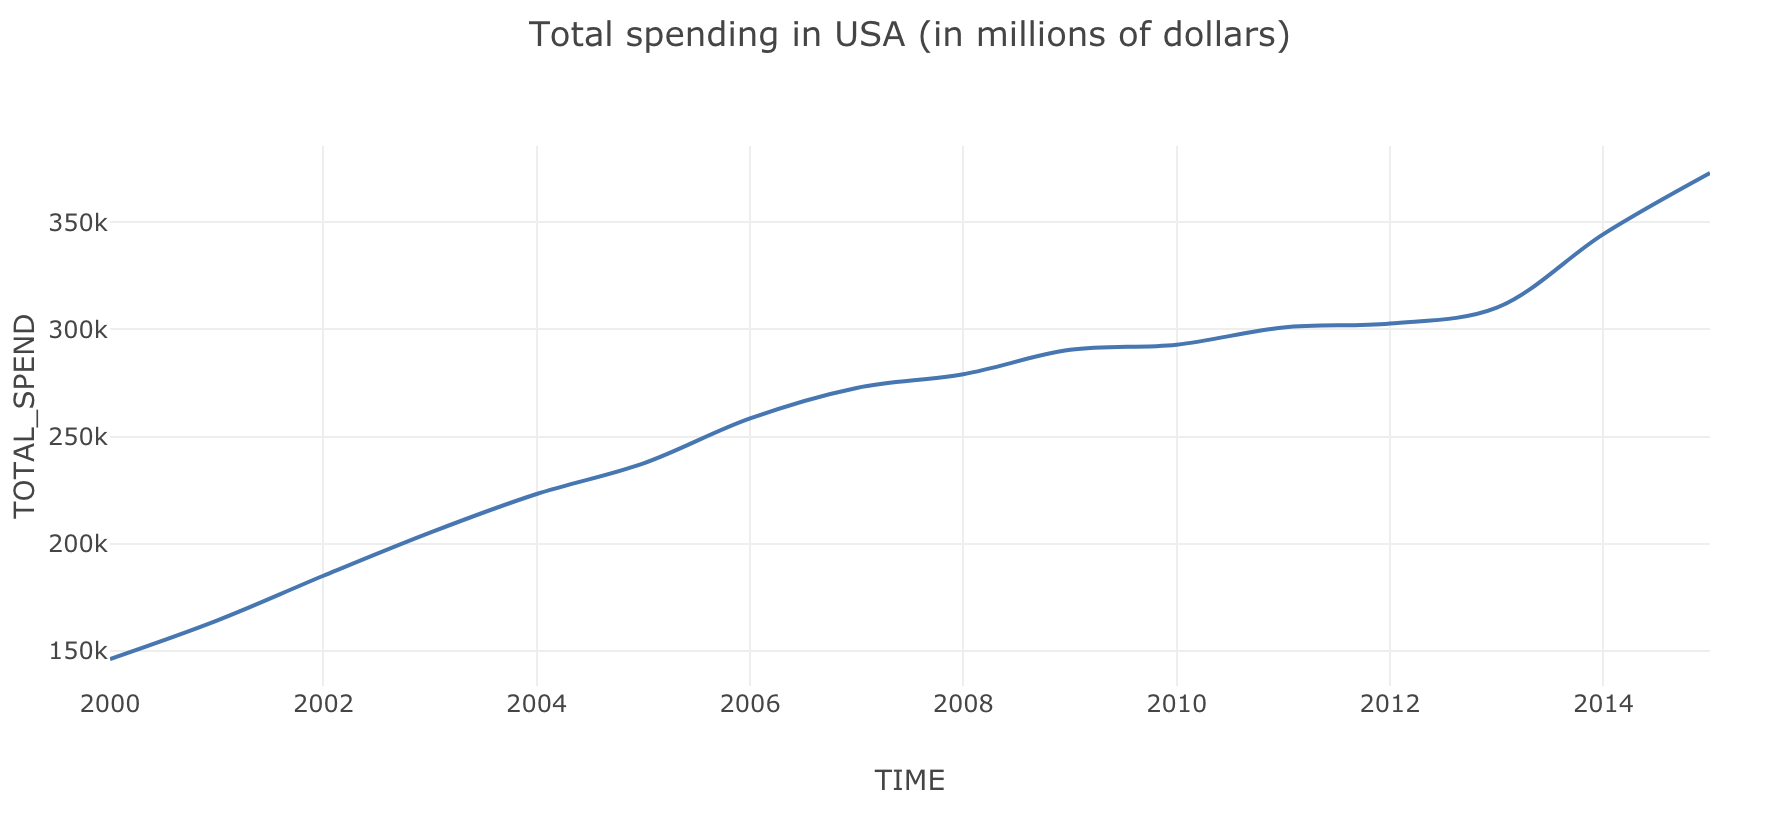
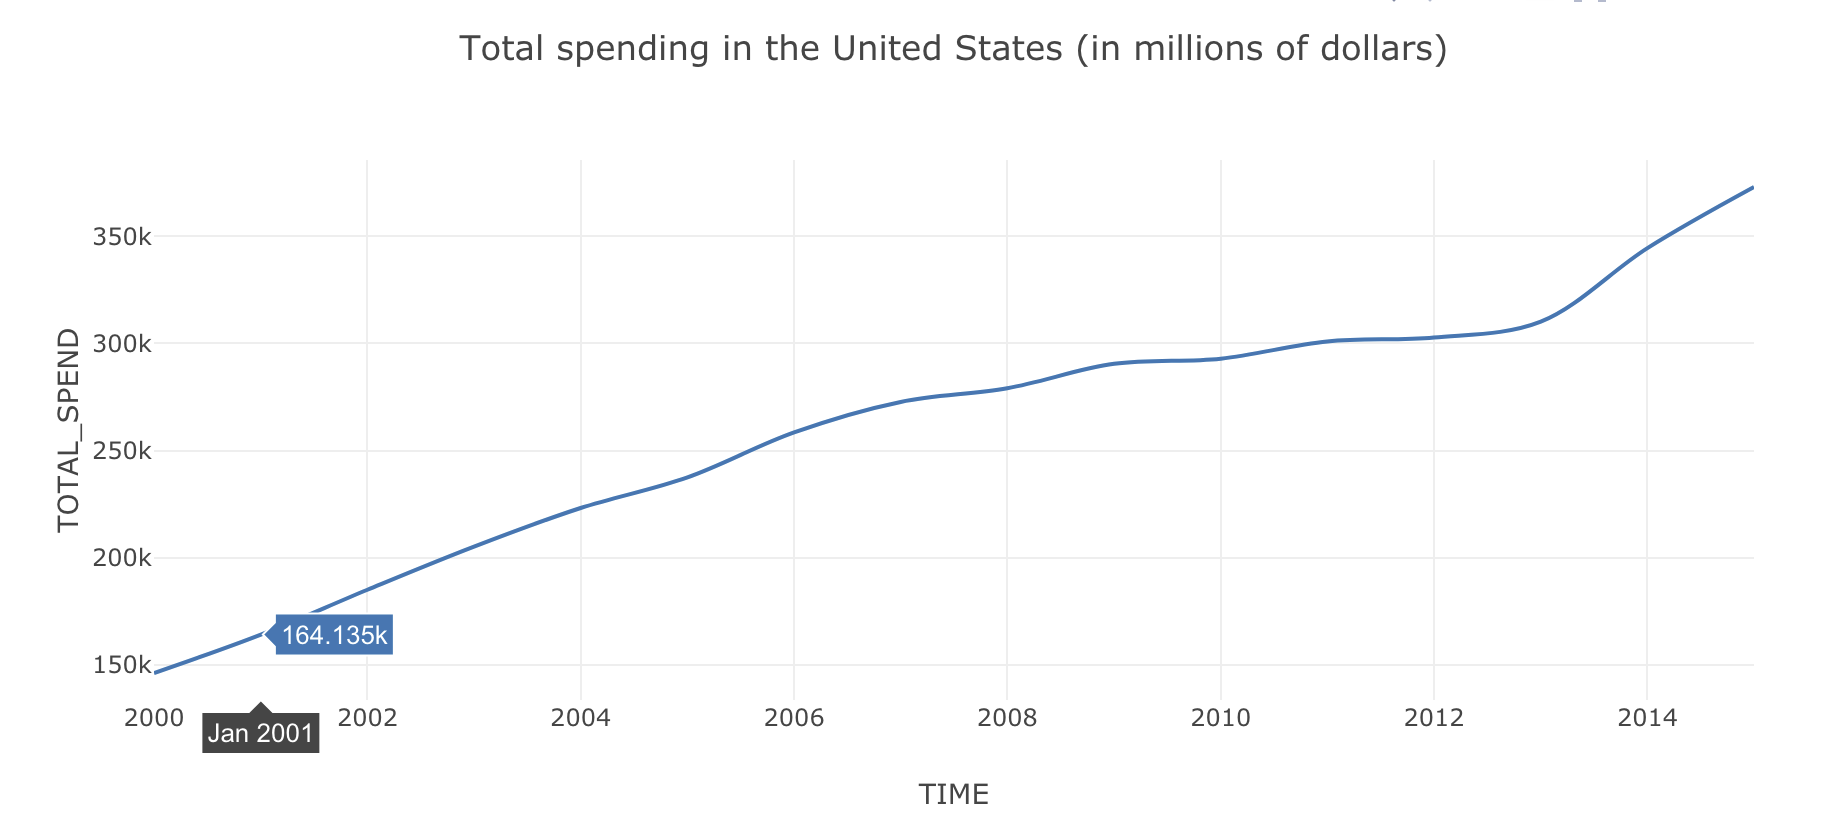
[pharma-blogpost][xs]: updated blog post and image - refs datahq/pm#74

diff --git a/blog/2018-01-23-pharmaceutical-drug-spending.md b/blog/2018-01-23-pharmaceutical-drug-spending.md
@@ -13,22 +13,22 @@ This chart illustrates total spending by country in 2015:
 
 ![](/static/img/docs/pharma-dataset1.png)
 
-For comparizon, you can take a look on spendings per capita in same year: 
+For comparison, you can take a look at spendings per capita in the same year: 
 
 ![](/static/img/docs/pharma-dataset2.png)
 
-As you can see Americans spend the most on drugs compared to the rest of the world, and below you can see chart that breaks down total spendings in USA since 2000 and it is growing gradually.
+As you can see Americans spend the most on drugs compared to the rest of the world, and below you can see a chart that breaks down total spendings in the United States since 2000 and it is growing gradually.
 
 ![](/static/img/docs/pharma-dataset3.png)
 
 
 Pharmaceutical Drug Spending dataset by countries with indicators such as a share of total health spending, in USD per capita (using economy-wide Purchasing power parity or **PPP**) and as a share of GDP since 1970.
 
-Dataset covers total spending per country in column `TOTAL_SPEND`. We calculated this value by multiplying USD_CAP to POPULATION number using [population](http://datahub.io/core/population) core dataset from DataHub.
+Dataset covers total spending per country in column `TOTAL_SPEND`. We calculated this value by multiplying USD_CAP by POPULATION number using [population](http://datahub.io/core/population) core dataset from DataHub.
 
 
 
-This is how it looks like in a table. 
+This is how it looks like on a table. 
 
 ![](/static/img/docs/pharma-dataset4.png)
 
@@ -36,4 +36,4 @@ This is how it looks like in a table.
 
 The dataset is live on [DataHub]( https://datahub.io/core/pharmaceutical-drug-spending)
 
-Also, you can find other well-formatted, in high quality core datasets in [DataHub](http://datahub.io/search?q=core).
+Also, you can find other well-formatted, high-quality core datasets in [DataHub](http://datahub.io/search?q=core).
